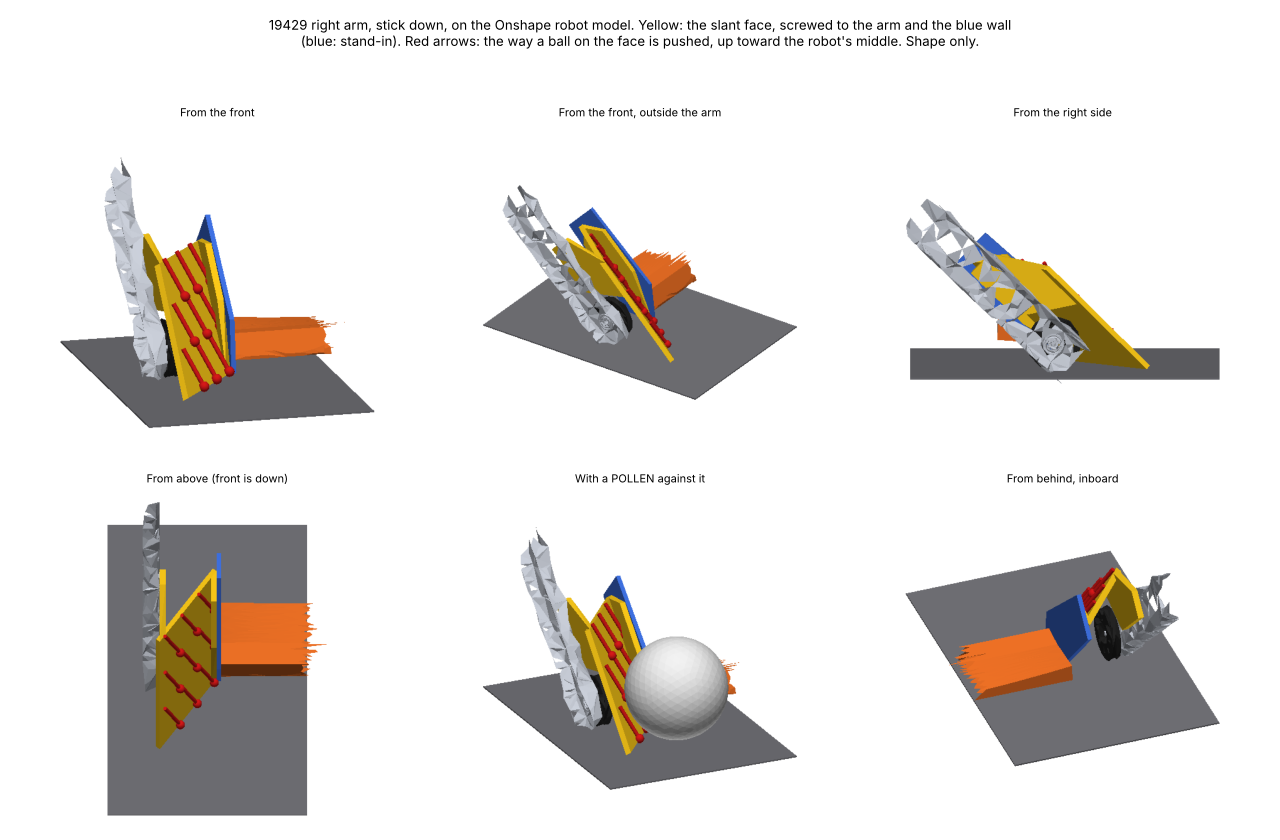
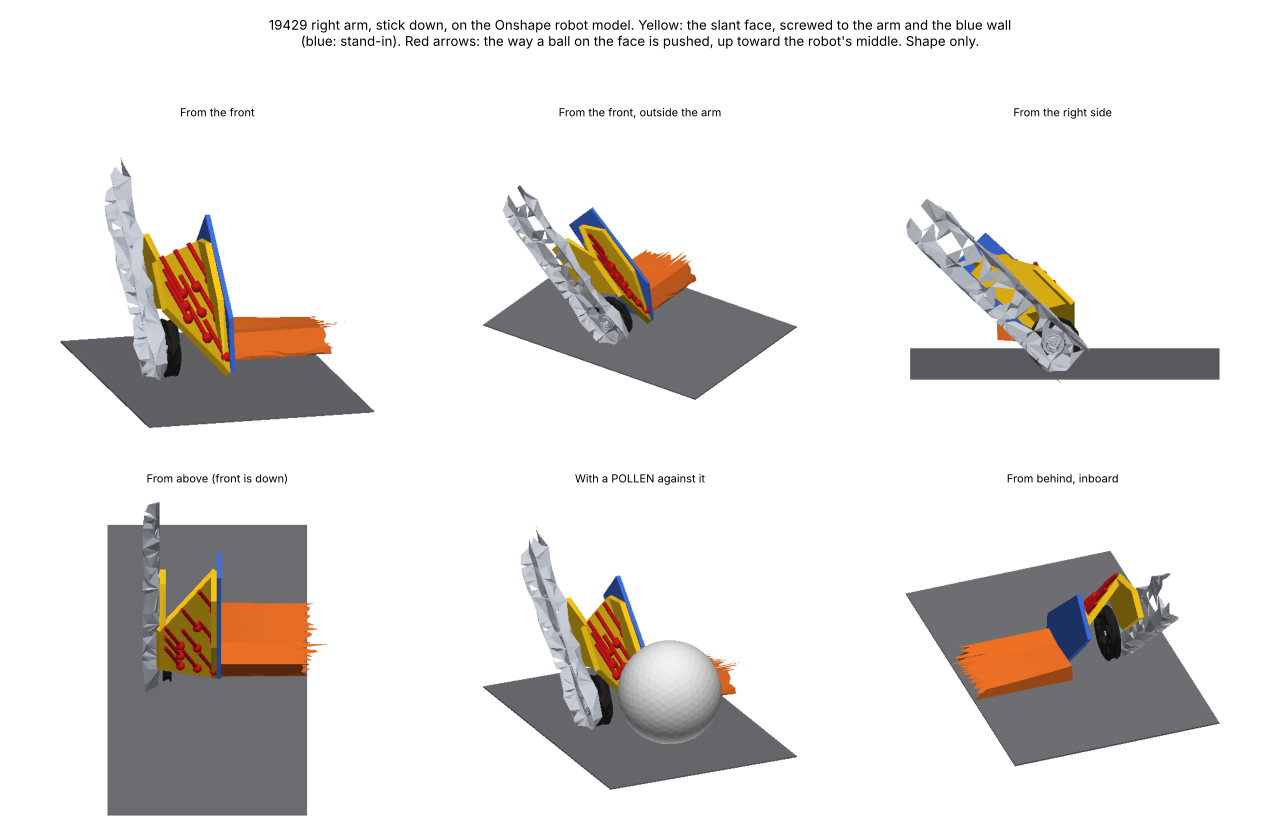
Stick shoulder: keep the slant face behind the orange ramp's front edge
Its front edge runs along the ramp's front line, high above the wheel at the
arm and down to the floor at the blue wall's tip (mentor, 14 Nov: nothing
further out than the ramp). Clears the wheel; the ball is still rolled inboard.

Claude-Session: https://claude.ai/code/session_01TTqzV61PEeuUNz3DRUBqRu

diff --git a/cad/stick-shoulder-19429/slant3d.py b/cad/stick-shoulder-19429/slant3d.py
@@ -5,9 +5,12 @@
 
 What the face does: a ball the robot drives into rides UP it, and while it is on it, the face's sideways tilt rolls it
 toward the robot's middle (to the right, looking at the robot's front). So the face is a ramp like the orange one,
-rising toward the robot, AND higher at the arm than at the blue wall. A face tilted both ways meets the floor on a
-diagonal: further forward at the arm, back at the blue wall's front tip, where the ball rolls on past the tip onto the
-orange ramp. The red arrows on the face are the way a ball on it is pushed (straight downhill on the face).
+rising toward the robot, AND higher at the arm than at the blue wall.
+
+Nothing goes further forward than the orange ramp's front edge (mentor, 14 Nov). So the face's front edge runs along
+that line: high at the arm, above the wheel, as the present blue shoulder sits, and down to the floor at the blue
+wall's front tip, where a ball rolls on past the tip onto the orange ramp. The red arrows on the face are the way a
+ball on it is pushed (straight downhill on the face).
 
 Shape only, for agreeing on it: no screw holes yet, sizes from the CAD (cad/advantagescope), not yet 19429's. Every
 number that sets the face is a constant below.
@@ -38,9 +41,9 @@ WALL_OUT = WALL_Y - WALL_T                 # the blue wall's outer face
 WHEEL_GAP = 2.0                            # the wheel sits this far off the arm (as the CAD's left one does)
 # ---- the face ----
 INCLINE_DEG = 45.0          # how steeply it rises toward the robot (the orange ramp's job, for a ball against the arm)
-TIP_X = 14.0                # its foot at the blue wall: level with the orange ramp's front edge, the wall's front tip
-ARM_X = 64.0                # its foot at the arm: this much further forward makes the sideways tilt
-FOOT_UP = 3.0               # its foot above the floor, so it never drags
+EDGE_ARM_UP = 46.0          # its front edge above the floor at the arm: clear of the wheel, where the blue shoulder is
+FOOT_UP = 3.0               # its front edge above the floor at the blue wall's tip, so it never drags
+FRONT_INSET = 0.0           # its front edge this far behind the orange ramp's front edge (never ahead of it)
 TOP_Z = 52.0                # how high it goes, above the shaft axis
 FACE_T = 4.0                # plate thickness
 POLLEN_D = 71.0             # 2.8 in
@@ -81,24 +84,30 @@ def hull(pts):
 
 
 class Face:
-    """The plane z = foot_z + tan(incline) * (foot_x(y) - x), foot_x running from ARM_X at the arm to TIP_X at the wall."""
+    """The plane z = edge_z(y) + tan(incline) * (front_x - x): its front edge at x = front_x (the orange ramp's front
+    edge), at EDGE_ARM_UP above the floor at the arm, falling to FOOT_UP at the blue wall."""
 
-    def __init__(self, floor_z):
-        self.foot_z = floor_z + FOOT_UP
+    def __init__(self, floor_z, front_x):
+        self.floor_z = floor_z
+        self.front_x = front_x - FRONT_INSET
         self.k = math.tan(math.radians(INCLINE_DEG))
+        self.slope = (FOOT_UP - EDGE_ARM_UP) / (WALL_OUT - ARM_Y)       # edge height per mm along y (negative)
 
-    def foot_x(self, y):
-        return TIP_X + (ARM_X - TIP_X) * (WALL_OUT - y) / (WALL_OUT - ARM_Y)
+    def edge_z(self, y):
+        return self.floor_z + EDGE_ARM_UP + self.slope * (y - ARM_Y)
 
     def x_at(self, y, z):
-        return self.foot_x(y) - (z - self.foot_z) / self.k
+        return self.front_x - (z - self.edge_z(y)) / self.k
 
     def point(self, y, z):
         return np.array([self.x_at(y, z), y, z])
 
+    def grad(self):
+        return np.array([self.k, -self.slope, 1.0])
+
     def normal(self):
-        """Out of the face: forward, up, and toward the robot's middle (the gradient of z - plane(x, y))."""
-        g = np.array([self.k, self.k * (ARM_X - TIP_X) / (WALL_OUT - ARM_Y), 1.0])
+        """Out of the face: forward, up, and toward the robot's middle."""
+        g = self.grad()
         return g / np.linalg.norm(g)
 
     def downhill(self):
@@ -111,7 +120,7 @@ class Face:
 
 def slant_piece(face, a):
     """The face plate, a side plate up the arm to the arm tab, a side plate on the blue wall, and the two tabs."""
-    corners = [face.point(ARM_Y, face.foot_z), face.point(WALL_OUT, face.foot_z), face.point(WALL_OUT, TOP_Z), face.point(ARM_Y, TOP_Z)]
+    corners = [face.point(ARM_Y, face.edge_z(ARM_Y)), face.point(WALL_OUT, face.edge_z(WALL_OUT)), face.point(WALL_OUT, TOP_Z), face.point(ARM_Y, TOP_Z)]
     n = face.normal()
     plate = hull(corners + [c - n * FACE_T for c in corners])
     u = np.array(a); v = np.array([-u[1], u[0]]); v = v if v[1] > 0 else -v
@@ -120,9 +129,9 @@ def slant_piece(face, a):
     arm_tab = tab_pts(ARM_Y, ARM_Y + 4, 30, 72, -4, 14)
     # the arm side plate stays above the wheel: from the face's arm edge above WHEEL_TOP to the tab
     wheel_top = 17.75 + 10
-    arm_side = hull([tuple(face.point(y, z)) for y in (ARM_Y, ARM_Y + 4) for z in (wheel_top, TOP_Z)] + arm_tab)
+    arm_side = hull([tuple(face.point(y, z)) for y in (ARM_Y, ARM_Y + 4) for z in (max(wheel_top, face.edge_z(y)), TOP_Z)] + arm_tab)
     wall_tab = tab_pts(WALL_OUT - 4, WALL_OUT, 20, 60, -8, 18)
-    wall_side = hull([tuple(face.point(y, z)) for y in (WALL_OUT - 4, WALL_OUT) for z in (face.foot_z, TOP_Z)] + wall_tab)
+    wall_side = hull([tuple(face.point(y, z)) for y in (WALL_OUT - 4, WALL_OUT) for z in (face.edge_z(y), TOP_Z)] + wall_tab)
     return [plate, arm_side, wall_side]
 
 
@@ -130,10 +139,10 @@ def arrows(face, n_rows=3, n_cols=3, length=26.0):
     """Short red bars on the face pointing downhill, with a dot at the head."""
     out = []
     d = face.downhill(); nrm = face.normal()
-    for i in range(n_rows):
-        z = face.foot_z + 12 + i * (TOP_Z - face.foot_z - 22) / max(1, n_rows - 1)
-        for j in range(n_cols):
-            y = ARM_Y + 8 + j * (WALL_OUT - ARM_Y - 16) / max(1, n_cols - 1)
+    for j in range(n_cols):
+        y = ARM_Y + 8 + j * (WALL_OUT - ARM_Y - 16) / max(1, n_cols - 1)
+        for i in range(n_rows):
+            z = face.edge_z(y) + 10 + i * (TOP_Z - face.edge_z(y) - 20) / max(1, n_rows - 1)
             p = face.point(y, z) + nrm * 1.5
             seg = trimesh.creation.cylinder(radius=1.4, segment=[p - d * length / 2, p + d * length / 2], sections=12)
             head = trimesh.creation.icosphere(radius=3.2); head.apply_translation(p + d * length / 2)
@@ -155,14 +164,12 @@ def wheel_hits(face, a, y0, y1, r):
 
 
 def ball_on(face, y):
-    """A POLLEN resting on the floor against the face at y."""
+    """A POLLEN on the floor, centred at y, just touching the face."""
     r = POLLEN_D / 2
-    nrm = face.normal()
-    # centre at height r above the floor (floor = foot_z - FOOT_UP), r from the face along its normal
-    zc = face.foot_z - FOOT_UP + r
-    c = face.point(y, zc - nrm[2] * r) + nrm * r
-    c[2] = zc
-    b = trimesh.creation.icosphere(subdivisions=3, radius=r); b.apply_translation(c)
+    zc = face.floor_z + r
+    g = face.grad()
+    x = face.front_x + (r * np.linalg.norm(g) - (zc - face.edge_z(y))) / face.k     # signed distance to the plane = r
+    b = trimesh.creation.icosphere(subdivisions=3, radius=r); b.apply_translation([x, y, zc])
     return b
 
 
@@ -189,9 +196,11 @@ def main():
     wheel.apply_transform(trimesh.transformations.reflection_matrix([0, 0, 0], [0, 1, 0])); wheel.fix_normals()
     wheel.apply_translation([0, (ARM_Y + WHEEL_GAP) - wheel.bounds[0][1], 0])
 
-    face = Face(floor_z)
+    ramp = next(m for n, m in parts.items() if n.startswith("Flower Ramp"))
+    front_x = ramp.bounds[1][0] - sc[0]                     # the orange ramp's front edge, ahead of the shaft
+    face = Face(floor_z, front_x)
     u = np.array(a); v = np.array([-u[1], u[0]]); v = v if v[1] > 0 else -v
-    fin_xz = [(TIP_X + 2, floor_z + 3), (TIP_X - 2, 18.0), tuple(80 * u + 18 * v), tuple(80 * u - 12 * v), (-10.0, floor_z + 4)]
+    fin_xz = [(front_x, floor_z + 3), (front_x - 4, 18.0), tuple(80 * u + 18 * v), tuple(80 * u - 12 * v), (-10.0, floor_z + 4)]
     fin = hull([(x, y, z) for x, z in fin_xz for y in (WALL_OUT, WALL_Y)])
 
     def world(m):
@@ -200,7 +209,7 @@ def main():
     piece = [world(m) for m in slant_piece(face, a)]
     # the wheel must not touch the piece
     hits = wheel_hits(face, a, wheel.bounds[0][1], wheel.bounds[1][1], (wheel.bounds[1][2] - wheel.bounds[0][2]) / 2)
-    print(f"floor {floor_z:.1f}; downhill on the face {np.round(face.downhill(), 2)} (x fwd, y left, z up); wheel samples inside: {hits}")
+    print(f"floor {floor_z:.1f}; ramp front {front_x:.1f} ahead of the shaft; piece reaches {max(m.bounds[1][0] for m in slant_piece(face, a)):.1f}; downhill on the face {np.round(face.downhill(), 2)} (x fwd, y left, z up); wheel samples inside: {hits}")
 
     floor = trimesh.creation.box(extents=[hi[0] - lo[0], hi[1] - lo[1], 1])
     floor.apply_translation([(lo[0] + hi[0]) / 2, (lo[1] + hi[1]) / 2, -0.6])
@@ -208,7 +217,7 @@ def main():
     base = [(crop(m), c) for m, c in [(robot, GREY)] + stick + [(wheel, DARK), (world(fin), BLUE)]]
     base = [(m, c) for m, c in base if m is not None] + [(floor, (0.45, 0.45, 0.47))]
     new = [(m, NEW) for m in piece] + [(world(m), c) for m, c in arrows(face)]
-    ball = (world(ball_on(face, ARM_Y + 20)), WHITE)
+    ball = (world(ball_on(face, ARM_Y + POLLEN_D / 2 + 1)), WHITE)
 
     fig = plt.figure(figsize=(16, 10.5))
     views = [(15, -15, "From the front"), (30, -55, "From the front, outside the arm"), (8, -90, "From the right side"),
